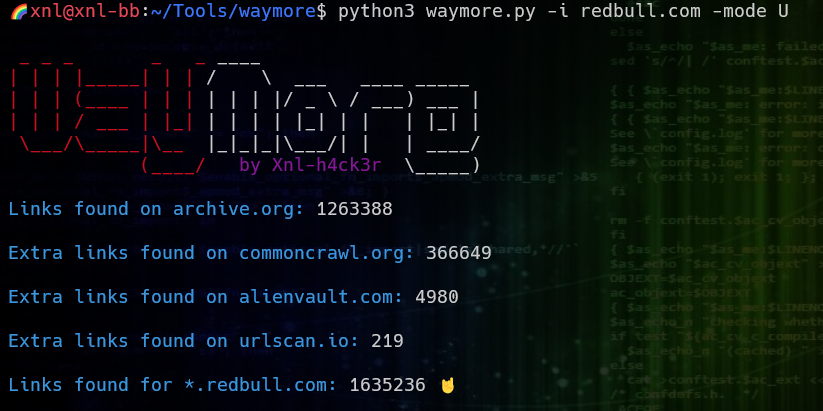
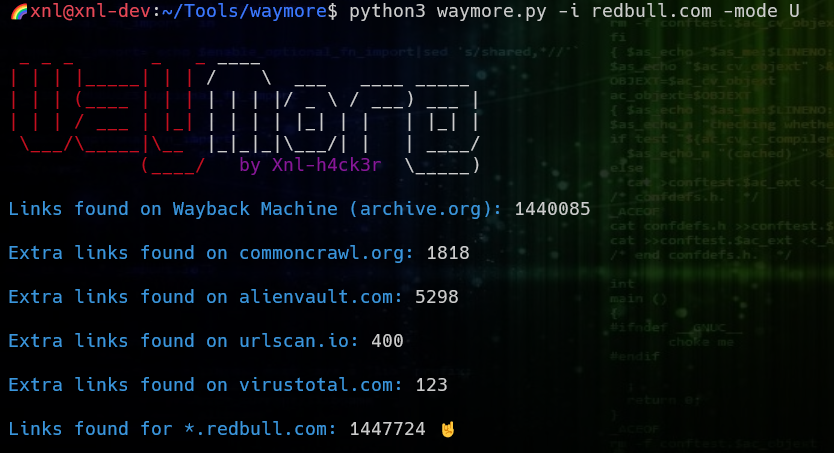
v2.0 - see CHANGELOG.md for details

diff --git a/waymore.py b/waymore.py
@@ -72,12 +72,14 @@ checkWayback = 0
 checkCommonCrawl = 0
 checkAlienVault = 0
 checkURLScan = 0
+checkVirusTotal = 0
 
 # Source Provider URLs
 WAYBACK_URL = 'https://web.archive.org/cdx/search/cdx?url={DOMAIN}&collapse={COLLAPSE}&fl=timestamp,original,mimetype,statuscode,digest'
 CCRAWL_INDEX_URL = 'https://index.commoncrawl.org/collinfo.json'
 ALIENVAULT_URL = 'https://otx.alienvault.com/api/v1/indicators/domain/{DOMAIN}/url_list?limit=500'
 URLSCAN_URL = 'https://urlscan.io/api/v1/search/?q=domain:{DOMAIN}&size=10000'
+VIRUSTOTAL_URL = 'https://www.virustotal.com/vtapi/v2/domain/report?apikey={APIKEY}&domain={DOMAIN}'
 
 # User Agents to use when making requests, chosen at random
 USER_AGENT  = [
@@ -206,6 +208,13 @@ def showBanner():
     write(colored("| | | / ___ | |_| ","red")+"| | | | |_| | |   | |_| |")
     write(colored(r" \___/\_____|\__  ","red")+r"|_|_|_|\___/| |   | ____/")
     write(colored("            (____/ ","red")+colored("  by Xnl-h4ck3r ","magenta")+r" \_____)")
+    currentDate = datetime.now().date()
+    if currentDate.month == 12 and currentDate.day == 25:
+        write(colored("            *** 🎅 HAPPY CHRISTMAS! 🎅 ***","green",attrs=["blink"]))
+    elif currentDate.month == 10 and currentDate.day == 31:
+        write(colored("            *** 🎃 HAPPY HALLOWEEN! 🎃 ***","red",attrs=["blink"]))
+    elif currentDate.month == 10 and currentDate.day == 31:
+        write(colored("            *** 🥳 HAPPY NEW YEAR!! 🥳 ***","yellow",attrs=["blink"]))
     write()
 
 def verbose():
@@ -279,9 +288,14 @@ def showOptions():
         write(colored('-xav: ' +str(args.xav), 'magenta')+colored(' Whether to exclude checks for links from alienvault.com','white'))
         write(colored('-xus: ' +str(args.xus), 'magenta')+colored(' Whether to exclude checks for links from urlscan.io','white'))
         if URLSCAN_API_KEY == '':
-            write(colored('URLScan API Key:', 'magenta')+colored(' {none} - You can get a FREE or paid API Key at https://urlscan.io/user/signup which will let you get more bac, and quicker.','white'))
+            write(colored('URLScan API Key:', 'magenta')+colored(' {none} - You can get a FREE or paid API Key at https://urlscan.io/user/signup which will let you get more back, and quicker.','white'))
         else:
             write(colored('URLScan API Key: ', 'magenta')+colored(URLSCAN_API_KEY))
+        write(colored('-xvt: ' +str(args.xvt), 'magenta')+colored(' Whether to exclude checks for links from virustotal.com','white'))
+        if VIRUSTOTAL_API_KEY == '':
+            write(colored('VirusTotal API Key:', 'magenta')+colored(' {none} - You can get a FREE or paid API Key at https://www.virustotal.com/gui/join-us which will let you get some extra URLs.','white'))
+        else:
+            write(colored('VirusTotal API Key: ', 'magenta')+colored(VIRUSTOTAL_API_KEY))
         
         if args.mode in ['U','B']:
             if args.output_urls != '':
@@ -359,7 +373,7 @@ def getConfig():
     """
     Try to get the values from the config file, otherwise use the defaults
     """
-    global FILTER_CODE, FILTER_MIME, FILTER_URL, FILTER_KEYWORDS, URLSCAN_API_KEY, CONTINUE_RESPONSES_IF_PIPED, subs, path, waymorePath, inputIsDomainANDPath, HTTP_ADAPTER, HTTP_ADAPTER_CC, argsInput, terminalWidth, MATCH_CODE
+    global FILTER_CODE, FILTER_MIME, FILTER_URL, FILTER_KEYWORDS, URLSCAN_API_KEY, VIRUSTOTAL_API_KEY, CONTINUE_RESPONSES_IF_PIPED, subs, path, waymorePath, inputIsDomainANDPath, HTTP_ADAPTER, HTTP_ADAPTER_CC, argsInput, terminalWidth, MATCH_CODE
     try:
         
         # Set terminal width
@@ -466,6 +480,16 @@ def getConfig():
             except Exception as e:
                 writerr(colored('Unable to read "URLSCAN_API_KEY" from config.yml - consider adding (you can get a FREE api key at urlscan.io)', 'red'))
                 URLSCAN_API_KEY = ''
+                
+            try:
+                VIRUSTOTAL_API_KEY = config.get('VIRUSTOTAL_API_KEY')
+                if str(VIRUSTOTAL_API_KEY) == 'None':
+                    if not args.xvt:
+                        writerr(colored('No value for "VIRUSTOTAL_API_KEY" in config.yml - consider adding (you can get a FREE api key at virustotal.com)', 'yellow'))
+                    VIRUSTOTAL_API_KEY = ''
+            except Exception as e:
+                writerr(colored('Unable to read "VIRUSTOTAL_API_KEY" from config.yml - consider adding (you can get a FREE api key at virustotal.com)', 'red'))
+                VIRUSTOTAL_API_KEY = ''
             
             try:
                 FILTER_KEYWORDS = config.get('FILTER_KEYWORDS')
@@ -512,6 +536,7 @@ def getConfig():
             FILTER_MIME = DEFAULT_FILTER_MIME
             FILTER_CODE = DEFAULT_FILTER_CODE
             URLSCAN_API_KEY = ''
+            VIRUSTOTAL_API_KEY = ''
             FILTER_KEYWORDS = ''
             CONTINUE_RESPONSES_IF_PIPED = True
             
@@ -795,12 +820,12 @@ def processURLOutput():
     """
     Show results of the URL output, i.e. getting URLs from archive.org and commoncrawl.org and write results to file
     """
-    global linksFound, subs, path, argsInput, checkWayback, checkCommonCrawl, checkAlienVault, checkURLScan
+    global linksFound, subs, path, argsInput, checkWayback, checkCommonCrawl, checkAlienVault, checkURLScan, checkVirusTotal
 
     try:
         
         if args.check_only:
-            totalRequests = checkWayback + checkCommonCrawl + checkAlienVault + checkURLScan
+            totalRequests = checkWayback + checkCommonCrawl + checkAlienVault + checkURLScan + checkVirusTotal
             minutes = totalRequests*1 // 60
             hours = minutes // 60
             days = hours // 24
@@ -1704,6 +1729,8 @@ def getWaybackUrls():
             except:
                 if str(e).lower().find('alert access denied'):
                     writerr(colored(getSPACER('[ ERR ] Unable to get links from Wayback Machine (archive.org): Access Denied. Are you able to manually visit https://web.archive.org/? Your ISP may be blocking you, e.g. your adult content filter is on (why it triggers that filter I don\'t know, but it has happened!)'), 'red'))
+                elif str(e).lower().find('connection refused'):
+                    writerr(colored(getSPACER('[ ERR ] Unable to get links from Wayback Machine (archive.org): Connection Refused. Are you able to manually visit https://web.archive.org/? Your ISP may be blocking your IP)'), 'red'))
                 else:
                     writerr(colored(getSPACER('[ ERR ] Unable to get links from Wayback Machine (archive.org): ' + str(e)), 'red'))
             return
@@ -1989,6 +2016,156 @@ def getCommonCrawlUrls():
     except Exception as e:
         writerr(colored('ERROR getCommonCrawlUrls 1: ' + str(e), 'red'))
 
+def processVirusTotalUrl(url):
+    """
+    Process a specific URL from virustotal.io to determine whether to save the link
+    """
+    global argsInput
+    
+    addLink = True
+    
+    # If the url passed doesn't have a scheme, prefix with http://
+    match = re.search(r'^[A-za-z]*\:\/\/', url, flags=re.IGNORECASE)
+    if match is None: 
+        url = 'http://'+url
+        
+    try:      
+        # If filters are required then test them
+        if not args.filter_responses_only:
+            
+            # If the user requested -n / --no-subs then we don't want to add it if it has a sub domain (www. will not be classed as a sub domain)
+            if args.no_subs:
+                match = re.search(r'^[A-za-z]*\:\/\/(www\.)?'+re.escape(argsInput), url, flags=re.IGNORECASE)
+                if match is None:
+                    addLink = False
+        
+            # If the user didn't requested -f / --filter-responses-only then check http code
+            # Note we can't check MIME filter because it is not returned by VirusTotal API
+            if addLink and not args.filter_responses_only: 
+                
+                # Check the URL exclusions
+                if addLink:
+                    match = re.search(r'('+re.escape(FILTER_URL).replace(',','|')+')', url, flags=re.IGNORECASE)
+                    if match is not None:
+                        addLink = False            
+                
+                # Set keywords filter if -ko argument passed
+                if addLink and args.keywords_only:
+                    if args.keywords_only == '#CONFIG':
+                        match = re.search(r'('+re.escape(FILTER_KEYWORDS).replace(',','|')+')', url, flags=re.IGNORECASE)
+                    else:
+                        match = re.search(r'('+args.keywords_only+')', url, flags=re.IGNORECASE)
+                    if match is None:
+                        addLink = False     
+                    
+        # Add link if it passed filters        
+        if addLink:
+            # Just get the domain of the url found by removing anything after ? and then from 3rd / 
+            domainOnly = url.split('?',1)[0]
+            domainOnly = '/'.join(domainOnly.split('/',3)[:3])
+
+            # VirusTotal might return URLs that aren't for the domain passed so we need to check for those and not process them
+            # Check the URL
+            match = re.search(r'^[A-za-z]*\:\/.*(\/|\.)'+re.escape(argsInput)+'$', domainOnly, flags=re.IGNORECASE)
+            if match is not None:
+                linksFoundAdd(url)  
+                
+    except Exception as e:
+        writerr(colored('ERROR processVirusTotalUrl 1: ' + str(e), 'red'))
+    
+def getVirusTotalUrls():
+    """
+    Get URLs from the VirusTotal API v2
+    """
+    global VIRUSTOTAL_API_KEY, linksFound, linkMimes, waymorePath, subs, stopProgram, stopSource, argsInput, checkVirusTotal
+    
+    # Write the file of URL's for the passed domain/URL
+    try:
+        requestsMade = 0
+        stopSource = False
+        linkMimes = set()
+        originalLinkCount = len(linksFound)
+        
+        url = VIRUSTOTAL_URL.replace('{DOMAIN}',quote(argsInput)).replace('{APIKEY}',VIRUSTOTAL_API_KEY)
+        
+        if verbose():
+            write(colored('The VirusTotal URL requested to get links: ','magenta')+colored(url+'\n','white'))
+        
+        if not args.check_only:           
+            write(colored('\rGetting links from virustotal.com API...\r','cyan'))
+       
+        # Get the domain report from virustotal
+        try:
+            # Choose a random user agent string to use for any requests
+            userAgent = random.choice(USER_AGENT)
+            session = requests.Session()
+            session.mount('https://', HTTP_ADAPTER)
+            session.mount('http://', HTTP_ADAPTER)
+            # Pass the API-Key header too. This can change the max endpoints per page, depending on URLScan subscription
+            resp = session.get(url, headers={'User-Agent':userAgent})
+            requestsMade = requestsMade + 1
+        except Exception as e:
+            write(colored(getSPACER('[ ERR ] Unable to get links from virustotal.io: ' + str(e)), 'red'))
+            return
+                        
+        # Deal with any errors
+        if resp.status_code == 429:
+            writerr(colored(getSPACER('[ 429 ] VirusTotal rate limit reached so unable to get links.'),'red'))
+            return
+        elif resp.status_code == 403:
+            writerr(colored(getSPACER('[ 403 ] VirusTotal: Permission denied. Check your API key is correct.'),'red'))
+            return
+        elif resp.status_code != 200:
+            print(resp.text)
+            writerr(colored(getSPACER('[ ' + str(resp.status_code) + ' ] Unable to get links from virustotal.com'),'red'))
+            return
+        
+        # Get the JSON response
+        jsonResp = json.loads(resp.text.strip())
+  
+        # Get the different URLs
+        if args.no_subs:
+            subDomains = []
+        else:
+            try:
+                subDomains = jsonResp['subdomains']
+            except Exception as e:
+                subDomains = []
+        try:  
+            detectedUrls = [entry['url'] for entry in jsonResp.get('detected_urls', [])]
+        except Exception as e:
+            detectedUrls = []
+        try:
+            undetectedUrls = [entry[0] for entry in jsonResp.get('undetected_urls', [])]
+        except Exception as e:
+            undetectedUrls = []
+        try:
+            totalUrls = set(subDomains + detectedUrls + undetectedUrls)
+        except Exception as e:
+            totalUrls = []
+        
+        if args.check_only:
+            write(colored('Get URLs from VirusTotal: ','cyan')+colored('1 request','white'))
+            checkVirusTotal = 1
+        else:
+            # Carry on if something was found
+            for vturl in totalUrls:
+                
+                if stopSource:
+                    break
+                
+                # Get memory in case it exceeds threshold
+                getMemory()
+                
+                # Work out whether to include it
+                processVirusTotalUrl(vturl)
+                        
+            linkCount = len(linksFound) - originalLinkCount
+            write(getSPACER(colored('Extra links found on virustotal.com: ', 'cyan')+colored(str(linkCount),'white'))+'\n')
+        
+    except Exception as e:
+        writerr(colored('ERROR getVirusTotalUrls 1: ' + str(e), 'red'))
+        
 def processResponses():
     """
     Get archived responses from Wayback Machine (archive.org)
@@ -2449,6 +2626,12 @@ if __name__ == '__main__':
         default=False
     )
     parser.add_argument(
+        '-xvt',
+        action='store_true',
+        help='Exclude checks for links from virustotal.com',
+        default=False
+    )
+    parser.add_argument(
         '-lcc',
         action='store',
         type=int,
@@ -2615,6 +2798,10 @@ if __name__ == '__main__':
                 # If not requested to exclude, get URLs from urlscan.io
                 if not args.xus and stopProgram is None:
                     getURLScanUrls()
+
+                # If not requested to exclude, get URLs from virustotal.com if we have an API key
+                if not args.xvt and VIRUSTOTAL_API_KEY != '' and stopProgram is None:
+                    getVirusTotalUrls()
                     
                 # Output results of all searches
                 processURLOutput()

diff --git a/waymore/__init__.py b/waymore/__init__.py
@@ -1,1 +1,1 @@
-__version__="1.37"
+__version__="2.0"

diff --git a/README.md b/README.md
@@ -1,10 +1,11 @@
 <center><img src="https://github.com/xnl-h4ck3r/waymore/blob/main/waymore/images/title.png"></center>
 
-## About - v1.37
+## About - v2.0
 
 The idea behind **waymore** is to find even more links from the Wayback Machine than other existing tools.
 
 👉 The biggest difference between **waymore** and other tools is that it can also **download the archived responses** for URLs on wayback machine so that you can then search these for even more links, developer comments, extra parameters, etc. etc.
+👉 Also, other tools do not currenrtly deal with the rate limiting now in place by the sources, and will often just stop with incomplete results and not let you know they are incomplete.
 
 Anyone who does bug bounty will have likely used the amazing [waybackurls](https://github.com/tomnomnom/waybackurls) by @TomNomNoms. This tool gets URLs from [web.archive.org](https://web.archive.org) and additional links (if any) from one of the index collections on [index.commoncrawl.org](http://index.commoncrawl.org/).
 You would have also likely used the amazing [gau](https://github.com/lc/gau) by @hacker\_ which also finds URL's from wayback archive, Common Crawl, but also from Alien Vault and URLScan.
@@ -14,6 +15,7 @@ Now **waymore** gets URL's from ALL of those sources too (with ability to filter
 - Common Crawl (index.commoncrawl.org)
 - Alien Vault OTX (otx.alienvault.com)
 - URLScan (urlscan.io)
+- Virus Total (virustotal.com)
 
 👉 It's a point that many seem to miss, so I'll just add it again :) ... The biggest difference between **waymore** and other tools is that it can also **download the archived responses** for URLs on wayback machine so that you can then search these for even more links, developer comments, extra parameters, etc. etc.
 
@@ -60,6 +62,7 @@ $ sudo pip3 install -r requirements.txt
 | -xcc          |                            | Exclude checks for links from commoncrawl.org                                                                                                                                                                                                                                                                                                                                                                                                                                                                                                                                                                                                                  |
 | -xav          |                            | Exclude checks for links from alienvault.com                                                                                                                                                                                                                                                                                                                                                                                                                                                                                                                                                                                                                   |
 | -xus          |                            | Exclude checks for links from urlscan.io                                                                                                                                                                                                                                                                                                                                                                                                                                                                                                                                                                                                                       |
+| -xvt          |                            | Exclude checks for links from virustotal.com                                                                                                                                                                                                                                                                                                                                                                                                                                                                                                                                                                                                                   |
 | -lcc          |                            | Limit the number of Common Crawl index collections searched, e.g. `-lcc 10` will just search the latest `10` collections (default: 3). As of July 2023 there are currently 95 collections. Setting to `0` (default) will search **ALL** collections. If you don't want to search Common Crawl at all, use the `-xcc` option.                                                                                                                                                                                                                                                                                                                                   |
 | -t            | --timeout                  | This is for archived responses only! How many seconds to wait for the server to send data before giving up (default: 30)                                                                                                                                                                                                                                                                                                                                                                                                                                                                                                                                       |
 | -p            | --processes                | Basic multithreading is done when getting requests for a file of URLs. This argument determines the number of processes (threads) used (default: 1)                                                                                                                                                                                                                                                                                                                                                                                                                                                                                                            |

diff --git a/CHANGELOG.md b/CHANGELOG.md
@@ -1,5 +1,13 @@
 ## Changelog
 
+- v2.0
+
+  - New
+
+    - Add VirusTotal as a source for URLs. We will get URLs from the v2 API domain report. This can include sub domains, detected URLs, and undetected URLs in the response. It does not give you the status code or MIME type of the links, so we will just check against extension.
+    - Show a specific message for Wayback Machine if there is a Connection Refused error. This happens when they have blocked the users IP.
+    - Add some pointless celebration messages to the banner for a few different dates!
+
 - v1.37
 
   - New
